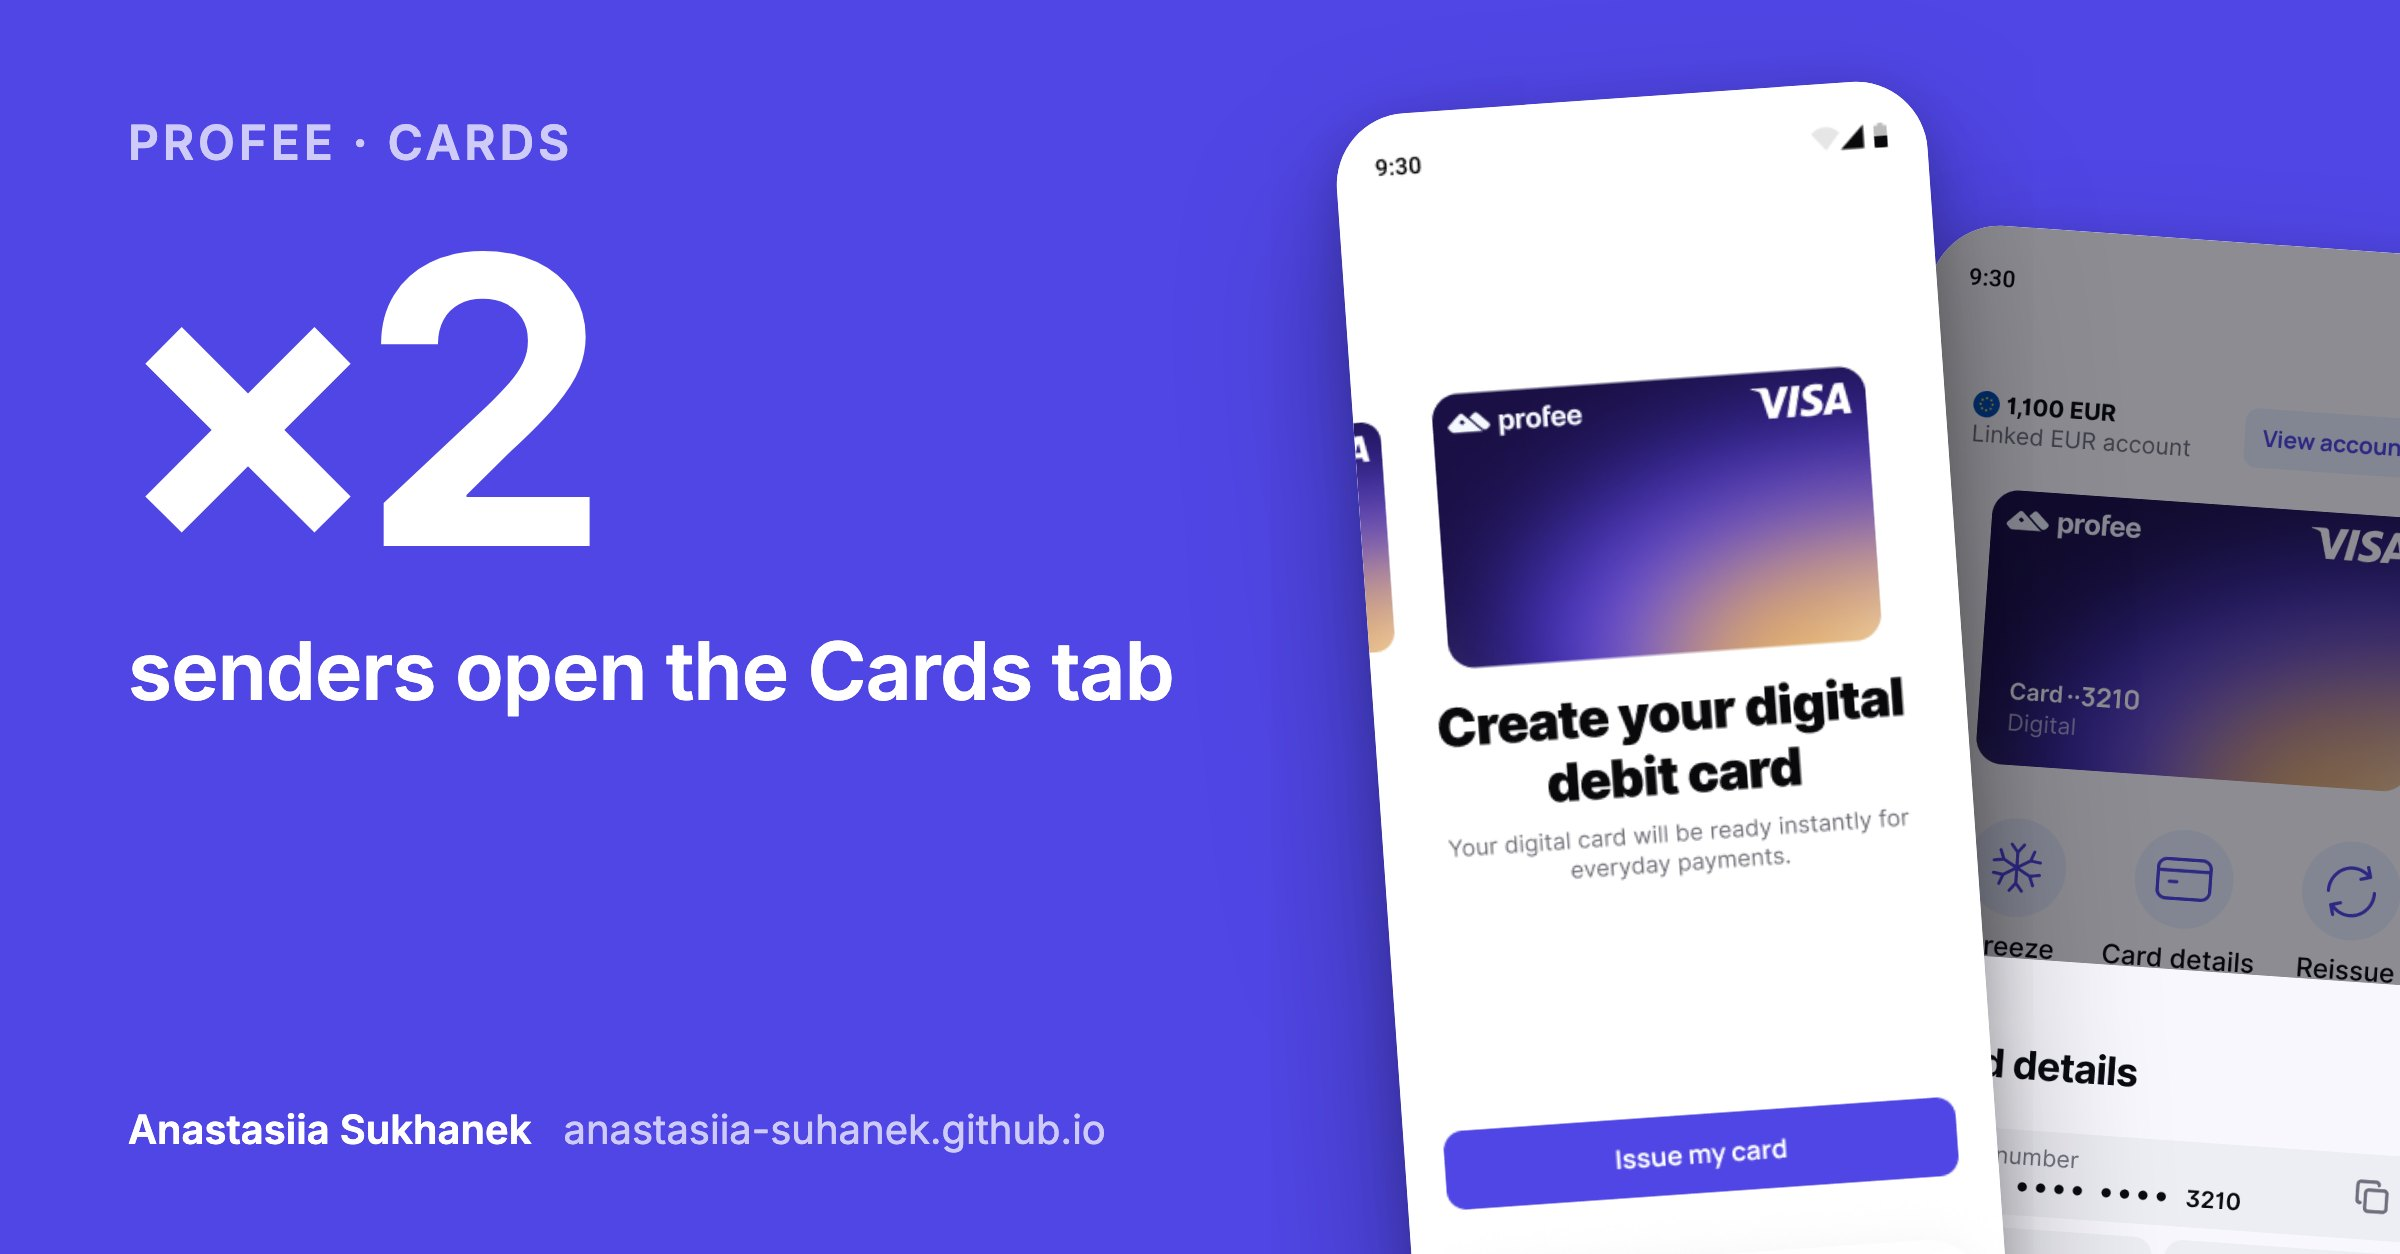
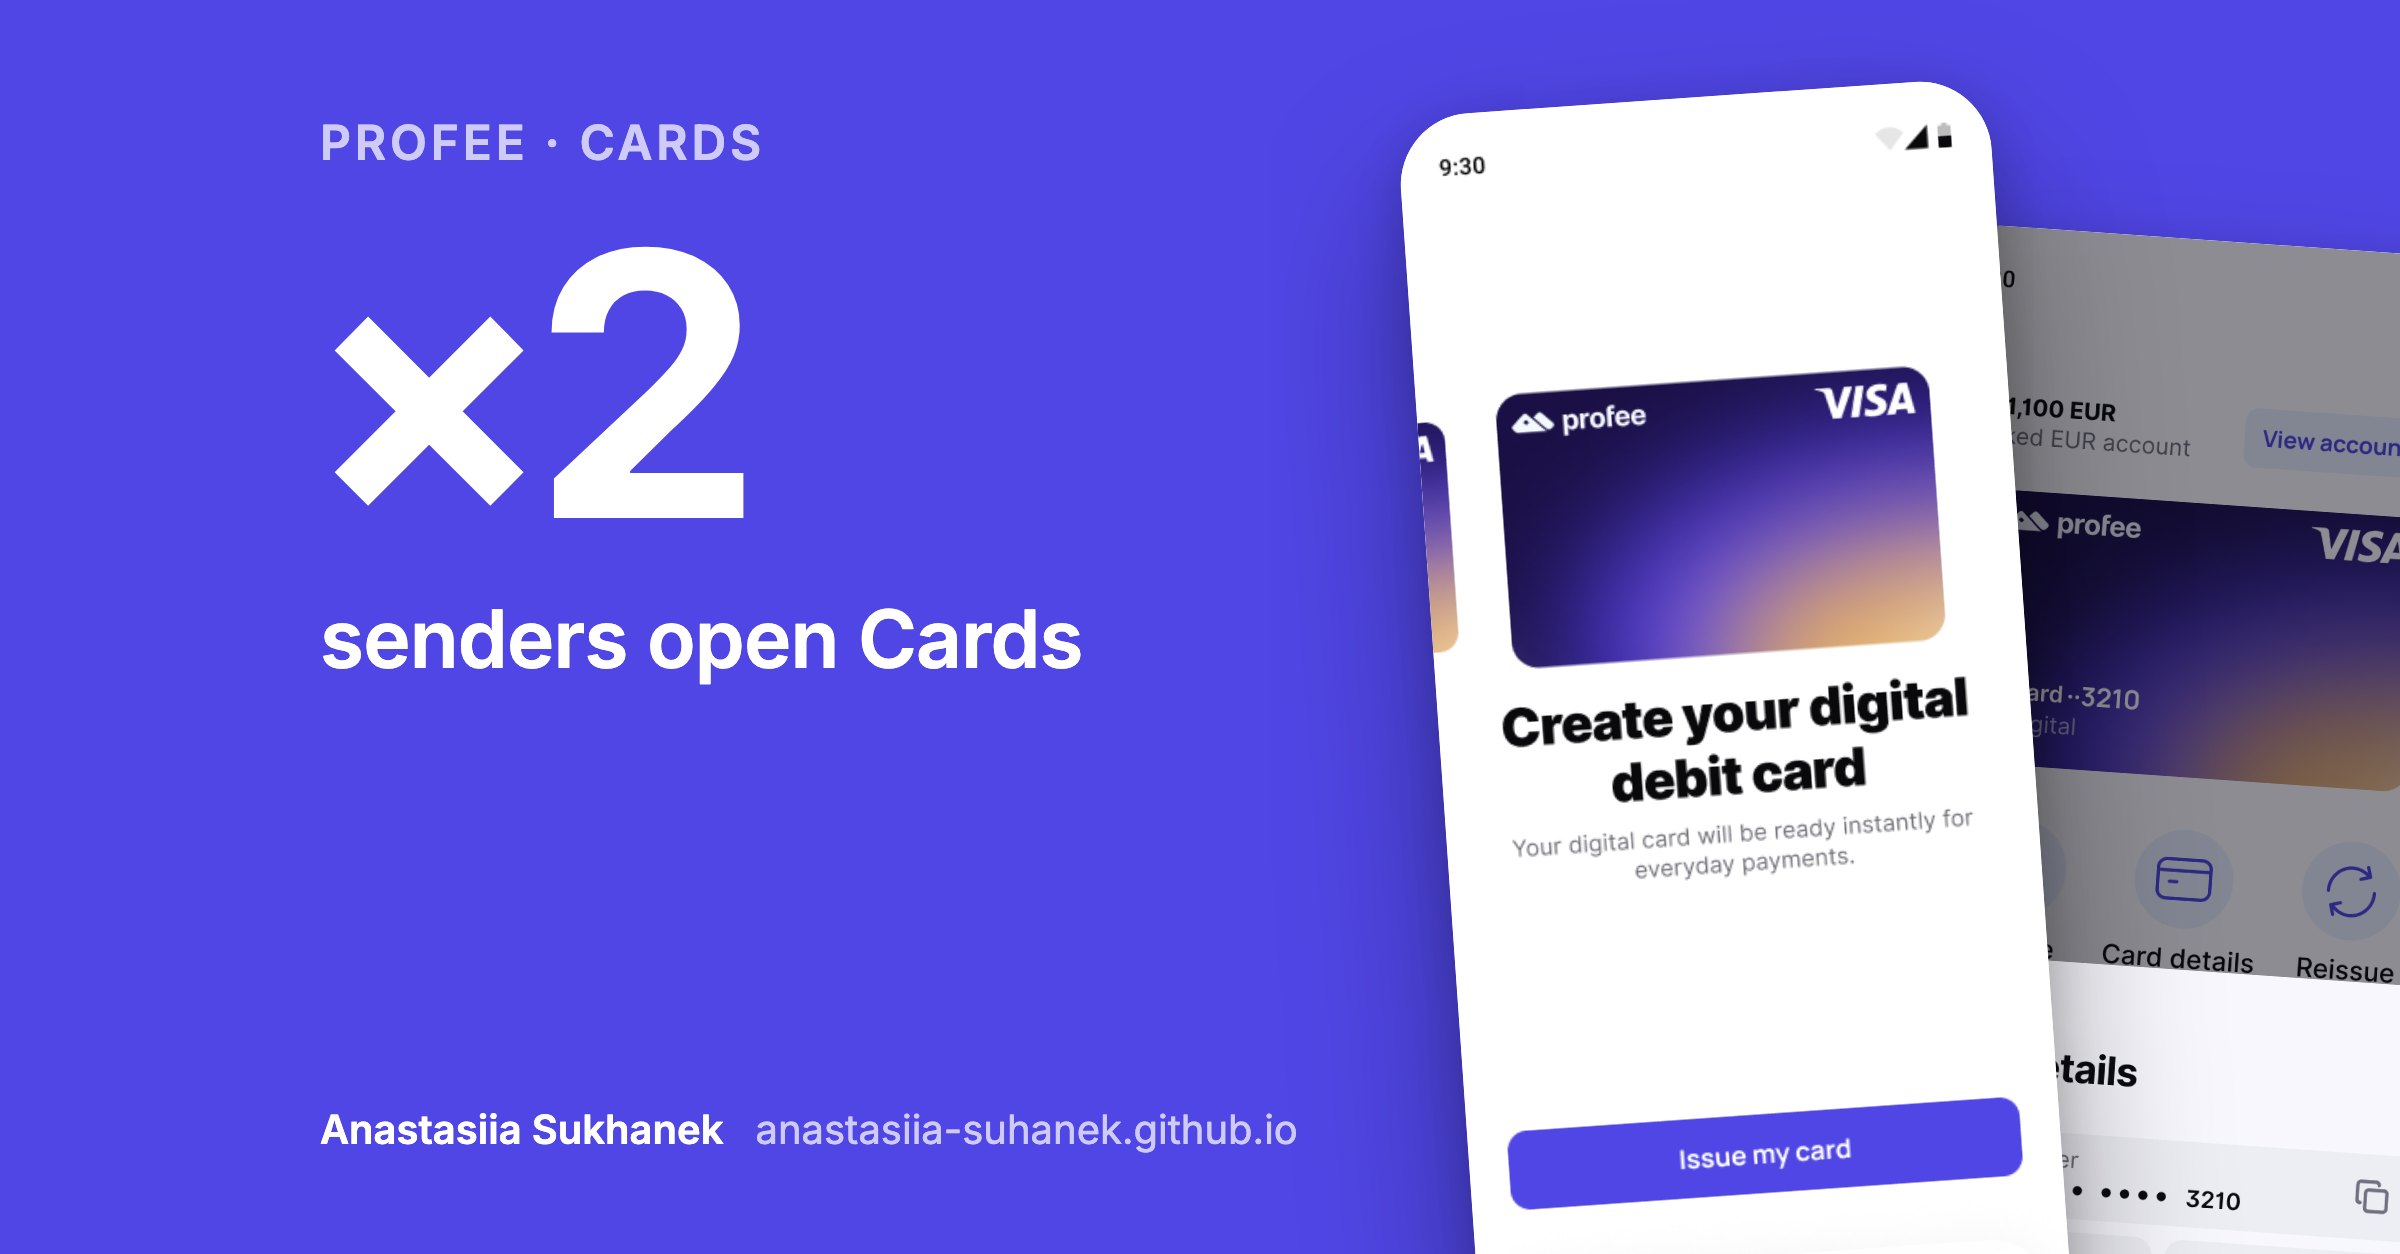
Share covers: content in a centre safe zone so LinkedIn's square-ish crop keeps the whole metric; shorter Cards label

diff --git a/case-profee-verification.html b/case-profee-verification.html
@@ -7,7 +7,7 @@
 <meta property="og:type" content="article">
 <meta property="og:title" content="KYC verification: from email to app – Anastasiia Sukhanek">
 <meta property="og:description" content="Case study: 10 KYC verification entry points in the Profee app and web, rebuilt as one design system component. Verification questions to support per new user fell by 54%, and more new users got verified on each platform once the card arrived">
-<meta property="og:image" content="https://anastasiia-suhanek.github.io/images/og/cover-profee-verification.jpg?v=2">
+<meta property="og:image" content="https://anastasiia-suhanek.github.io/images/og/cover-profee-verification.jpg?v=3">
 <meta property="og:image:width" content="2400">
 <meta property="og:image:height" content="1254">
 <meta name="twitter:card" content="summary_large_image">

diff --git a/case-profee-cards.html b/case-profee-cards.html
@@ -7,7 +7,7 @@
 <meta property="og:type" content="article">
 <meta property="og:title" content="Profee Cards – Anastasiia Sukhanek">
 <meta property="og:description" content="Case study: rebuilding the Cards product area for Profee on iOS and Android – twice the share of senders opening the Cards tab, and an honest read of what the card did not change.">
-<meta property="og:image" content="https://anastasiia-suhanek.github.io/images/og/cover-profee-cards.jpg?v=2">
+<meta property="og:image" content="https://anastasiia-suhanek.github.io/images/og/cover-profee-cards.jpg?v=3">
 <meta property="og:image:width" content="2400">
 <meta property="og:image:height" content="1254">
 <meta name="twitter:card" content="summary_large_image">

diff --git a/case-profee-statuses.html b/case-profee-statuses.html
@@ -7,7 +7,7 @@
 <meta property="og:type" content="article">
 <meta property="og:title" content="Transfer statuses – Anastasiia Sukhanek">
 <meta property="og:description" content="Case study: an Updates timeline for Profee transfers – full transfer history and inline action cards, app and web.">
-<meta property="og:image" content="https://anastasiia-suhanek.github.io/images/og/cover-profee-statuses.jpg?v=2">
+<meta property="og:image" content="https://anastasiia-suhanek.github.io/images/og/cover-profee-statuses.jpg?v=3">
 <meta property="og:image:width" content="2400">
 <meta property="og:image:height" content="1254">
 <meta name="twitter:card" content="summary_large_image">

diff --git a/case-profee-topup.html b/case-profee-topup.html
@@ -7,7 +7,7 @@
 <meta property="og:type" content="article">
 <meta property="og:title" content="Top up in the transfer – Anastasiia Sukhanek">
 <meta property="og:description" content="Case study: a Top up button on the Profee wallet in the payment step – three times as many senders topped up.">
-<meta property="og:image" content="https://anastasiia-suhanek.github.io/images/og/cover-profee-topup.jpg?v=2">
+<meta property="og:image" content="https://anastasiia-suhanek.github.io/images/og/cover-profee-topup.jpg?v=3">
 <meta property="og:image:width" content="2400">
 <meta property="og:image:height" content="1254">
 <meta name="twitter:card" content="summary_large_image">

diff --git a/case-sber-spasibo.html b/case-sber-spasibo.html
@@ -7,7 +7,7 @@
 <meta property="og:type" content="article">
 <meta property="og:title" content="Gamification at Sber – Anastasiia Sukhanek">
 <meta property="og:description" content="Case study: games and tasks in the SberSpasibo loyalty programme, and moving it from the app to the web.">
-<meta property="og:image" content="https://anastasiia-suhanek.github.io/images/og/cover-sber-spasibo.jpg?v=2">
+<meta property="og:image" content="https://anastasiia-suhanek.github.io/images/og/cover-sber-spasibo.jpg?v=3">
 <meta property="og:image:width" content="2400">
 <meta property="og:image:height" content="1254">
 <meta name="twitter:card" content="summary_large_image">
